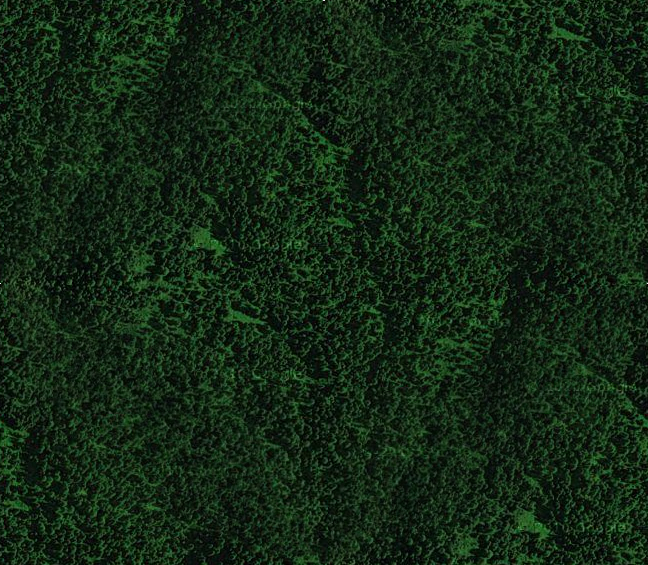
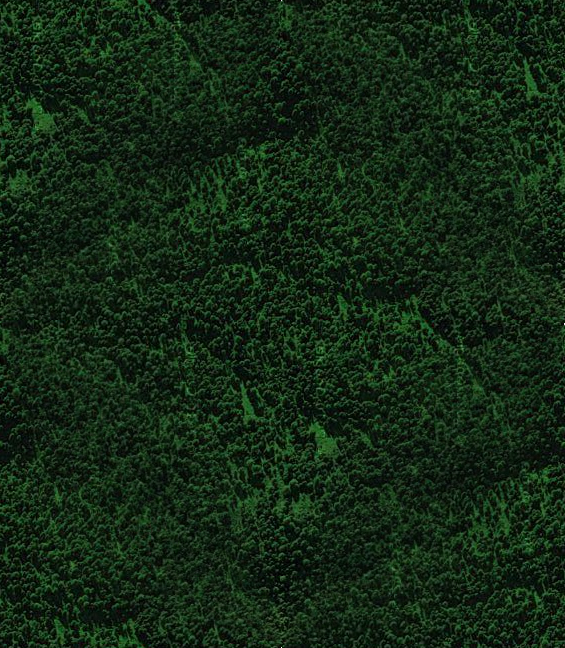
Primitive background

diff --git a/luftskepp.py b/luftskepp.py
@@ -19,6 +19,9 @@ FRAMES_PER_SECOND = 30
 TURNTIME = 3  # s
 
 class Airship(object):
+    """
+    A class to describe an airship
+    """
     def __init__(self, image, shadowimage, position=Vector(0,0), heading=0, speed=30, rotation=0):
         self.image = pygame.image.load(image)
         self.shadowimage = pygame.image.load(shadowimage)
@@ -52,14 +55,33 @@ class Airship(object):
     def set_rotation(self, newrotation):
         self.rotation = max(math.radians(-25), min(newrotation, math.radians(25)))
 
+class Map(object):
+    def __init__(self, image, position=Vector(0,0)):
+        self.tile = pygame.image.load(image)
+        self.position = position
+        self.surface = pygame.Surface((self.tile.get_width()*5,
+                                      self.tile.get_height()*5))
+        self.position = Vector((self.tile.get_width()*5,
+                                self.tile.get_height()*5))/2
+        for x in range(5):
+            for y in range(5):
+                print self.surface.blit(self.tile, (x*self.tile.get_width(),
+                                              y*self.tile.get_height()))
+
+
 
 airship = Airship('airship.png', 'shadow.png')
+map = Map("forest.png")
+
+def draw_background(map):
+    screen.blit(map.surface, (0,0),
+                pygame.Rect(map.position.x - SWIDTH//2, map.position.y-SHEIGHT//2,
+                            SWIDTH, SHEIGHT))
 
 def draw_all(screen, ships, blips):
     # draw everything
-    screen.fill(GREEN)
-
-    #screen.
+    #screen.fill(GREEN)
+    draw_background(map)
 
     for ship in ships:
         #airship.angle += 1
@@ -68,7 +90,7 @@ def draw_all(screen, ships, blips):
         screen.blit(airship_surf[1], (mapcenter+airship.position-img_size+Vector(20,20)).tuple())
         screen.blit(airship_surf[0], (mapcenter+airship.position-img_size).tuple())
 
-        for b in blips:
+        for i, b in enumerate(blips):
             blip_pos = (mapcenter+b)
             gfxdraw.filled_circle(screen, blip_pos.x, blip_pos.y, 3, (255,0,0))
 
@@ -117,12 +139,9 @@ while 1:
         elif mouseangle < -math.pi:
             mouseangle = math.pi*2 + mouseangle
 
-        if mouseangle > math.pi:
-            mouseangle -= 2*math.pi
-
         print mousedist , mouseangle
         draw_all(screen, [airship], blips)
-        pygame.draw.line(screen, (0,0,0),
+        pygame.draw.line(screen, (0,100,255),
                          (mapcenter+airship.position).tuple(),
                          (mapcenter+airship.position+mousedir/mousedist*airship.speed).tuple(),
                          7)
